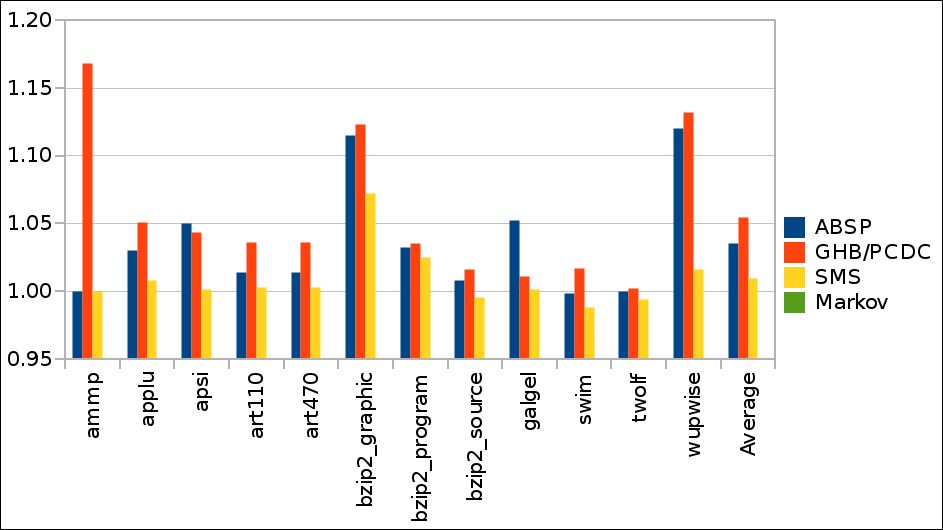
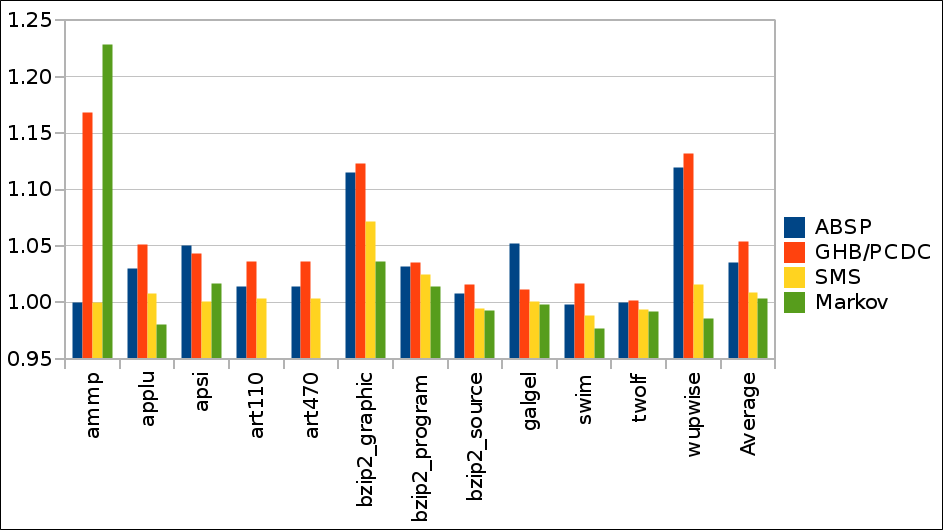
Markov data + diverse fiks

diff --git a/report/discussion/variability.tex b/report/discussion/variability.tex
@@ -6,12 +6,13 @@
 
 
 %Should the data in here be in result instead? Percentages etc.
-From these results, there are a number of interesting observations. The first item of interest relates to the average
+From these results, there are a number of interesting
+observations. The first item of interest relates to the average
 prefetcher speedups. As one might expect, it is the most complex,
 general purpose prefetcher, namely the GHB/PCDC prefetcher, which
 yields the highest average speedup. With an average speedup of
 $1.054$, it outperforms ABSP by $54.3\%$, SMS by $500\%$ and Markov by
-$some\%$. As it attempts to improve upon weaknesses in earlier methods
+$1700\%$. As it attempts to improve upon weaknesses in earlier methods
 (such as the stride directed and Markov prefetchers~\cite{Nesbit}),
 our results can be taken as an indication of its success. It therefore
 shows that there may be merit in creating a prefetcher which handles
@@ -26,9 +27,12 @@ $25\%$ of our simplest prefetcher, the ABSP. This is explainable by
 the nature of the benchmark programs we ran the prefetchers with. As
 explained in \autoref{sec:smsPrefetcher}, the SMS prefethcer is
 designed to increase the performance of applications such as operating
-systems and databases. However in the SPEC CPU2000 suite, there are no applications which has a memory pattern of high spatial locality~\cite{SPECFAQ}. As the programs exhibit a lower degree
-of the memory access patterns the SMS prefetcher attempts to
-recognize, it will be unable to be of much use. As can be seen in
+systems and databases. However in the SPEC CPU2000 suite, there are no
+I/O intensive applications~\cite{SPECFAQ}, which are more likely to
+have been tuned to have high spatial locality on disk block
+granularity. As the programs exhibit a lower degree of the memory
+access patterns the SMS prefetcher attempts to recognize, it will be
+unable to be of much use. As can be seen in
 \autoref{tab:numPrefetches}, the prefetcher is not completely
 inactive, and is able to recognize some patterns. However, its
 activity level is in general lower than the other prefetchers'. Thus,
@@ -38,22 +42,56 @@ configuration has a memory usage requirement on the order of hundreds
 of kilobytes, which was outside our parameter search space. This could
 also account for some of the poor performance.
 
+The Markov prefetcher also performed poorly on average. One of the
+reasons for this is that it has a very high memory requirement (on the
+order of megabytes, according to \cite{Nesbit}). When being restricted
+by a maximum of 8KiB the Markov prefetcher is unable to contain a
+large enough graph to be able to perform accurate predictions. Since
+the Markov prefetcher only is able to prefetch addresses which it has
+already seen, it is unable to yield a high speedup for applications
+with a low rate of repeting memory addresses.
+
+It is interesting to note, however, that the Markov prefetcher is the
+one with the highest speedup on any single benchmark. Although it has
+the worst performance on ten out of twelve benchmarks, it apparently
+is the best match for the memory access behavior of \emph{ammp}. If a
+workload consisted only of this kind of workload, then the Markov
+prefetcher would arguably be a valid choice.
+
 When studying the cause of the superior performance of the GHB
 prefetcher in further detail, it is evident that one benchmark in
-particular, namely \emph{ammp}, makes this prefetcher pull ahead of the other
-algorithms. The geometric mean of the speedups when disregarding \emph{ammp}
-is $1.045$, whereas the ABSP prefetcher, for instance, rises to
-$1.039$, reducing the difference in performance
-considerably. According to table 2 in \cite{Nesbit}, \emph{ammp} is the
-application which has the greatest potential for speedup from
+particular, namely \emph{ammp}, makes this prefetcher pull ahead of
+the other algorithms. The harmonic mean of the speedups when
+disregarding \emph{ammp} is $1.045$, whereas the ABSP prefetcher, for
+instance, rises to $1.038$, reducing the difference in performance
+considerably. According to table 2 in \cite{Nesbit}, \emph{ammp} is
+the application which has the greatest potential for speedup from
 prefetching data, with the possibility of $815\%$ improvement in
 execution time. Thus, being able to leverage this potential gives a
-significant competitive edge. This also shows that using a prefetcher that can match several access patterns will have a larger chance of matching the access patterns of the applications, and that this can be significant for the average performance of the prefetcher. In contrast to the SMS prefetcher, the performance is still good even when disregarding the best input case. This is a consequence of its generic nature, attempting to match both normal and more rare access patterns.   
+significant competitive edge. This also shows that using a prefetcher
+that can match several access patterns will have a larger chance of
+matching the access patterns of the applications, and that this can be
+significant for the average performance of the prefetcher. In contrast
+to the SMS prefetcher, the performance is still good even when
+disregarding the best input case. This is a consequence of its generic
+nature, attempting to match both normal and more rare access patterns.
 
 An interesting remark is that even though the ABSP is a simplication
 of the prefetcher that GHB is an extension of, it has similar
-performance gains on several of the benchmark programs. As previously notet, when disregarding the \emph{ammp} benchmark, its results is only $13.6\%$ worse than that of GHB. Considering the relative simplicity and low memory requirements of the ABSP prefetcher this difference might be too small to justify the choice of a prefetcher as complex as the GHB. This shows the value of investigating the context in which the prefetcher will be used.  
+performance gains on several of the benchmark programs. As previously
+noted, when disregarding the \emph{ammp} benchmark, its results is
+only $13.6\%$ worse than that of GHB. Considering the relative
+simplicity and low memory requirements of the ABSP prefetcher this
+difference might be too small to justify the choice of a prefetcher as
+complex as the GHB. This shows the value of investigating the context
+in which the prefetcher will be used.
 
-The markov prefetcher also performed poorly on average. One of the reasons for this is that it has a very high memory requirement. When being restricted by a maximum of 8KiB the markov prefetcher is unable to contain a large enough graph to be able to perform accurate predictions. Since the markov prefetcher only is able to prefetch addresses which it has already seen, it is unable to yield a high speedup for applications with a low rate of repeting memory addresses.
+To be specific, one factor that is not taken into consideration is
+that the ABSP and Markov prefetcher most likely would occupy less
+critical CPU surface, as they would not require having access to the
+program counter. The two prefetchers relying on the program counter
+(SMS and GHB) would need to be implemented close enough to the CPU to
+have access to the program counter, or would need to have the program
+counter passed on to them. Both of these solutions are likely to have
+a negative impact on the performance of the prefetchers.
 
-To be specific, one factor that is not taken into consideration is that the ABSP and markov prefetcher most likely would occupy less critical CPU surface, as they would not require having access to the program counter. The two prefetchers relying on the program counter (SMS and GHB) would need to be implemented close enough to the CPU to have access to the program counter, or would need to have the program counter passed on to them. Both of these solutions are likely to have a negative impact on the performance of the prefetchers. 

diff --git a/report/result.tex b/report/result.tex
@@ -20,7 +20,7 @@ prefetches issued by each algorithm is shown in
   \includegraphics[scale=0.25]{figures/init_results.png}
   \caption{\label{fig:initResults} Speedup on the Y-axis plotted
     against program on the X-axis. The average values are calculated
-    with a geometric mean.}
+    with a harmonic mean.}
 \end{figure}
 
 \begin{table}[htbp]
@@ -28,18 +28,18 @@ prefetches issued by each algorithm is shown in
   \begin{tabular}{|c|c|c|c|c|}
     \hline
     \textbf{Program} & \textbf{ABSP} & \textbf{GHB/PCDC} & \textbf{SMS} & \textbf{Markov} \\ \hline
-    ammp             & 7             & 11133102          & 2629         &  \\ \hline
-    applu            & 181817        & 1031986           & 63999        &  \\ \hline
-    apsi             & 52894         & 60416             & 879          &  \\ \hline
-    art110           & 1205703       & 2987084           & 325551       &  \\ \hline
-    art470           & 1205703       & 2987084           & 325551       &  \\ \hline
-    bzip2\_graphic   & 52339         & 64649             & 45194        &  \\ \hline
-    bzip2\_program   & 16802         & 31978             & 19994        &  \\ \hline
-    bzip2\_source    & 16124         & 22196             & 10391        &  \\ \hline
-    galgel           & 171849        & 434138            & 37906        &  \\ \hline
-    swim             & 10263         & 1487464           & 287655       &  \\ \hline
-    twolf            & 41            & 54773             & 115217       &  \\ \hline
-    wupwise          & 308489        & 332550            & 61077        &  \\ \hline
+    ammp             & 7             & 11133102          & 2629         & 7359044 \\ \hline
+    applu            & 181817        & 1031986           & 63999        & 214880 \\ \hline
+    apsi             & 52894         & 60416             & 879          & 7473 \\ \hline
+    art110           & 1205703       & 2987084           & 325551       & 1623008 \\ \hline
+    art470           & 1205703       & 2987084           & 325551       & 1623008 \\ \hline
+    bzip2\_graphic   & 52339         & 64649             & 45194        & 697 \\ \hline
+    bzip2\_program   & 16802         & 31978             & 19994        & 935 \\ \hline
+    bzip2\_source    & 16124         & 22196             & 10391        & 503 \\ \hline
+    galgel           & 171849        & 434138            & 37906        & 21337 \\ \hline
+    swim             & 10263         & 1487464           & 287655       & 101607 \\ \hline
+    twolf            & 41            & 54773             & 115217       & 236883 \\ \hline
+    wupwise          & 308489        & 332550            & 61077        & 43555 \\ \hline
   \end{tabular}
   \caption{The number of memory addresses prefetched on each benchmark by each prefetcher.}
   \label{tab:numPrefetches}

diff --git a/report/relatedWork.tex b/report/relatedWork.tex
@@ -9,13 +9,14 @@
 \label{sec:relatedWork}
 
 A large number of different prefetching strategies have been proposed,
-with the intent of either being better at adapting to the needs of
-different applications or recognizing an access pattern which is not
-adequately handled in existing prefetchers. The main inspiration for our prefetcher implementations is
-Grannæs' ph.d. thesis~\cite{Grannas}. In the background section of this
-paper, Grannæs describes five different categories of hardware
-prefetchers: sequential prefetchers, instruction based prefetchers,
-address based prefetchers, spatial locality prefetchers and linked
-data prefetchers. Several examples of the different types of
-prefetchers are given, with references to articles discussing some of
-the different kinds in more detail. 
+often with the intent of either being better at adapting to the needs
+of different applications or recognizing an access pattern which is
+not adequately handled in existing prefetchers. The main inspiration
+for our prefetcher implementations is Grannæs'
+ph.d. thesis~\cite{Grannas}. In the background section of this paper,
+Grannæs describes five different categories of hardware prefetchers:
+sequential prefetchers, instruction based prefetchers, address based
+prefetchers, spatial locality prefetchers and linked data
+prefetchers. Several examples of the different types of prefetchers
+are given, with references to articles discussing some of the
+different kinds in more detail.

diff --git a/report/methodology.tex b/report/methodology.tex
@@ -66,7 +66,7 @@ permissible range, and attempt to locate at least a local maximum by
 varying the parameters in turn. Due to the enormous possible set of
 values, only a few were tried for each degree of freedom---these are
 listed in \autoref{tab:stridesettings}, \autoref{tab:ghbsettings},
-\autoref{tab:smssettings}. The
+\autoref{tab:smssettings} and \autoref{tab:markovsettings}. The
 combination of parameters which yielded the highest average speedup
 are marked in bold.
 
@@ -85,7 +85,7 @@ are marked in bold.
 
 \begin{table}[htbp]
   \centering
-  \begin{tabular}{|c|c|c|}
+  \begin{tabular}{|c|c|}
     \hline
     \textbf{Table Size} & \textbf{Prefetch Degree} \\ \hline
     300 & 3 \\ \hline
@@ -110,6 +110,18 @@ are marked in bold.
   \label{tab:smssettings}
 \end{table}
 
+\begin{table}[htbp]
+  \centering
+  \begin{tabular}{|c|c|}
+    \hline
+    \textbf{Table Size} & \textbf{Prefetch Degree} \\ \hline
+    2000 & 2 \\ \hline
+    4000 & 3 \\ \hline
+    \textbf{6000} & \textbf{4} \\ \hline
+  \end{tabular}
+  \caption{The various parameters attempted for the Markov prefetcher. The table size is the maximum number of nodes in the Markov chain, and the prefetch degree is the number of edges to follow when prefetching.}
+  \label{tab:markovsettings}
+\end{table}
 
 
 % \begin{table}[htbp]

diff --git a/report/prefetcherDescription.tex b/report/prefetcherDescription.tex
@@ -9,8 +9,8 @@
 \label{sec:prefetcherDescription}
 
 In our paper, we will consider four different prefetching strategies,
-some taken from a separate category of prefetchers identified in
-Grannæs' paper (seque. \cite{Grannas}
+each of which is either found in or has been inspired by a separate
+category of prefetchers identified in Grannæs' paper. \cite{Grannas}
 
 \input{prefetcher_descriptions/absp}
 \input{prefetcher_descriptions/markov_prefetcher}
